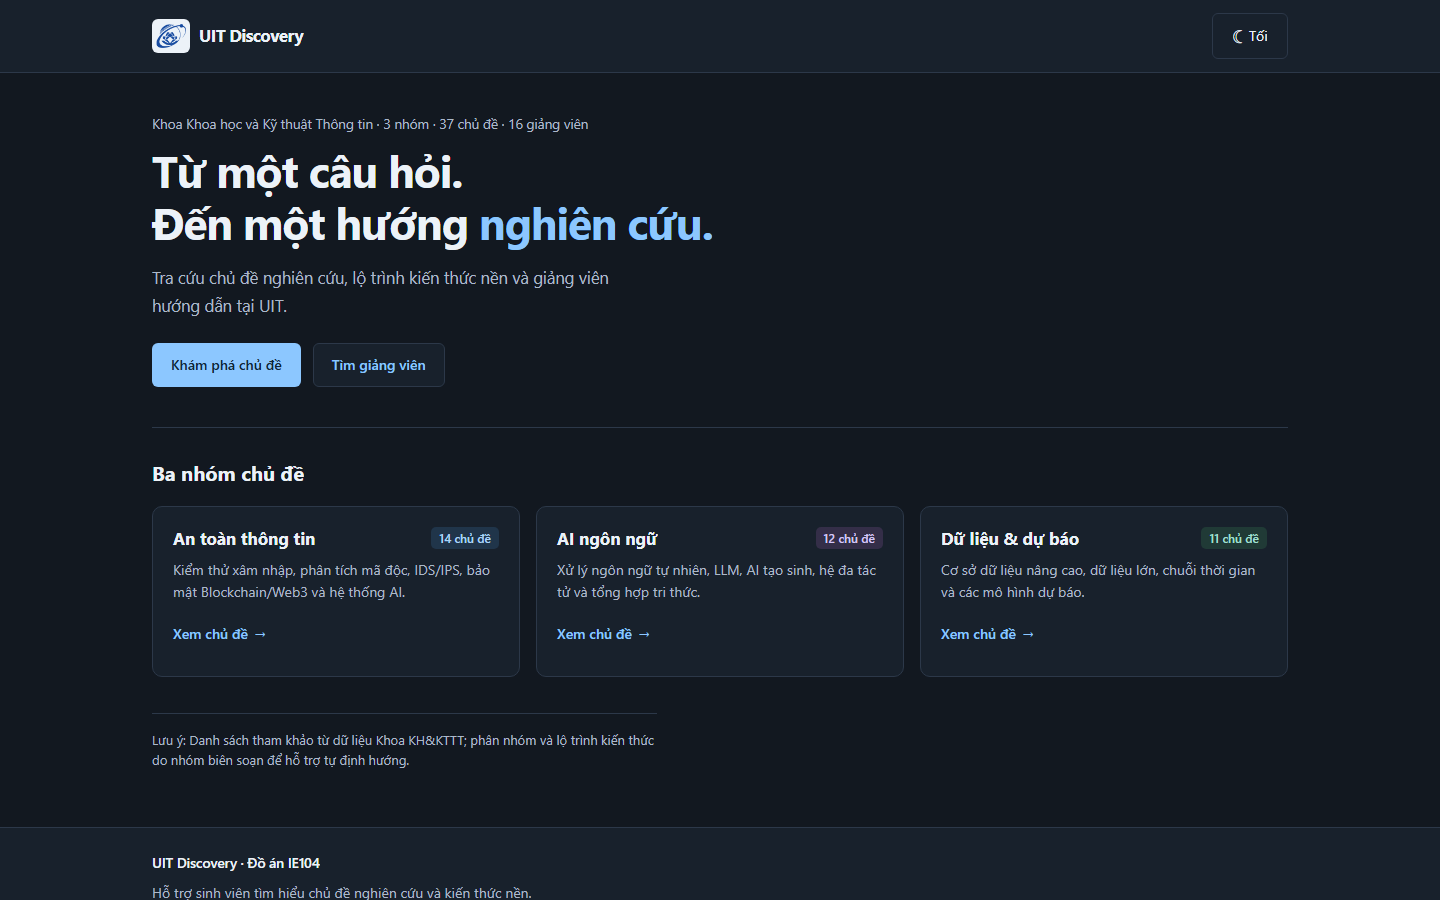
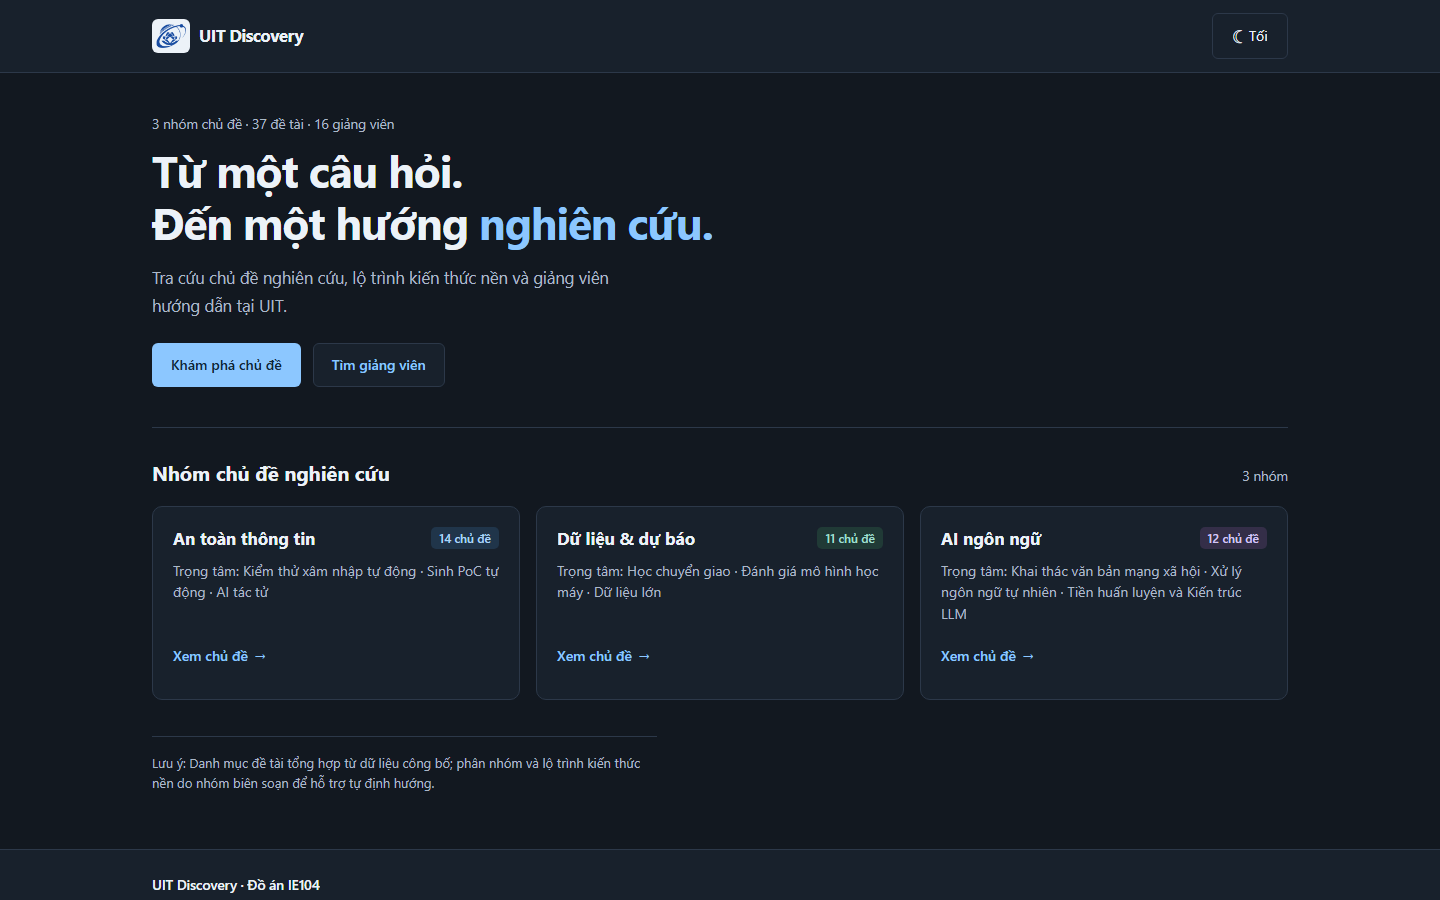
docs(history): cập nhật lịch sử và minh chứng động hóa dữ liệu không fix cứng

diff --git a/idea/README.md b/idea/README.md
@@ -8,7 +8,7 @@ Nhóm trưởng quản lý token, component, trang vào và module chung; các d
 
 ## Quyết định đang áp dụng
 
-- **Nâng cấp UI/UX hậu tích hợp & Tối giản hóa 18/11/2026 (`6f0d454` → bản tối giản cuối `c72acf8`, nhánh local `review/job-2-combined`):** Chuẩn hóa `35` token trong `style.css` (3 cặp sắc độ dịu `--color-domain-sec/data/nlp-*`, khôi phục `@media (prefers-color-scheme: dark)` No-JS, bỏ `--shadow-soft`); tối giản Trang chủ thành Hero 1 cột kèm 3 nhóm thật (`14/12/11`), loại bỏ khối minh họa nổi/quỹ đạo và 3 bước lặp, xử lý nền logo Dark Mode; trang Khám phá làm phẳng bộ lọc, bổ sung bộ đếm `(37/14/11/12)`, chọn nhiều OR bằng dấu `✓`, rút gọn tóm tắt đề tài định lượng (`N mục kiến thức · M môn gợi ý`) và giữ tiêu đề đầu gọn trong `375×812`; trang Chi tiết chủ đề làm phẳng header, ẩn hoàn toàn hộp chuyển khi GV chỉ có 1 đề tài (`7/16` GV), đồng bộ màu nhóm/badge trung tính và `Môn học gợi ý tham khảo`, lộ mép phải root + mũi tên + nút `+N`/`−` tách riêng + `Kéo 2D` + pseudo-fullscreen + `focusExpandedBranch()` neo đúng nhánh con; Danh bạ & Hồ sơ giảng viên giữ form `wcag/h32`, sắp A–Z tiếng Việt, bỏ vạch trang trí và hộp bọc lồng nhau, đưa `Chủ đề nghiên cứu` + `.profile-tags` lên đầu ở `15/16` hồ sơ tối giản. Backup gốc: `backup/job-2-before-ui-upgrade-20261118` (`f98c978`), backup đợt 1: `backup/job-2-ui-upgrade-v1-20261118` (`b8d84ab`). Giữ nguyên 100% `data/*.json`, schema, URL và alias `hunglkt -> hunglk`.
+- **Nâng cấp UI/UX hậu tích hợp, Tối giản & Động hóa 100% dữ liệu (18/11/2026 — `6f0d454` → `c72acf8` → bản cuối `00ab17a`, nhánh local `review/job-2-combined`):** Chuẩn hóa `41` token trong `style.css` (6 cặp sắc độ miền `--color-domain-1..6-bg/accent`, khôi phục `@media (prefers-color-scheme: dark)` No-JS, `--shadow-soft: none`); Trang chủ (`index.html` + `home.js`) dựng hoàn toàn từ JSON với `0`/`1`/`N` nhóm (`INITIAL_GROUP_LIMIT = 6` + nút mở rộng/thu gọn, thống kê tổng hợp thật, mô tả rút từ dữ liệu/trụ cột, link `?group=` sang Khám phá); trang Khám phá hỗ trợ `?group=`, co gọn chip nhóm khi `> 6` nhóm, placeholder trung tính và phân trang cửa sổ `getVisiblePages()` `<= 7` ô kèm `"…"`; trang Chi tiết chủ đề gán màu miền động `resolveGroupTone` cho mọi `group.id` và xử lý an toàn `keywords: []`; Danh bạ & Hồ sơ giảng viên bỏ placeholder mẫu, hỗ trợ `?group=`, nhãn miền động 6 tone và phân trang rút gọn. Backup gốc: `backup/job-2-before-ui-upgrade-20261118` (`f98c978`), backup đợt 1: `backup/job-2-ui-upgrade-v1-20261118` (`b8d84ab`), backup tối giản v1: `backup/job-2-ui-minimal-v1-20261118` (`d5c9ad7`). Giữ nguyên 100% `data/*.json`, schema, URL và alias `hunglkt -> hunglk`.
 
 - **Cập nhật UI/UX 17/11/2026 (nhóm trưởng duyệt phạm vi thiết kế lại):** nhận diện xanh UIT, Material tiết chế được phát triển thành giao diện học thuật có điểm nhấn: hero biên tập, minh họa khái niệm tự dựng bằng CSS, phân cấp bề mặt và typography. Chức năng/schema/URL giữ nguyên. Quyết định này thay giới hạn “ít trang trí” của 12/11; xem đánh giá và nghiệm thu mới trong kế hoạch tổng. Bản local chờ nhóm trưởng xem trước khi push/merge.
 

diff --git a/topics/job2-sua-chua-tv3.md b/topics/job2-sua-chua-tv3.md
@@ -129,3 +129,7 @@ Thực hiện hậu tích hợp trên nhánh `review/job-2-combined` (`CODE_SHA`
 - Làm phẳng `.topics-search` (viền đáy `1px`, bỏ hộp/bóng đổ), bỏ sọc trái `.page-header`, bỏ mô tả thừa dưới `h1` và khối `<details class="topics-guide">` ở cuối trang.
 - Bỏ chấm màu cầu vồng trên chip lọc chưa chọn (giữ dấu `✓` + nền nhấn xanh thống nhất khi bật lọc OR; giữ 3 màu dịu trên `.topic-row__group`), gom tiêu đề + bộ đếm kết quả trên 1 hàng, rút `.topic-row__summary` qua `data.js` còn `"N mục kiến thức · M môn gợi ý"`.
 - **Kết quả sau sửa:** Tiêu đề đề tài đầu tiên trên mobile `375×812` nâng lên `{top: 544, bottom: 582}` (`<= 812px`, thấy cả đầu đề tài thứ 2 trong màn hình đầu), placeholder `"Ví dụ: học sâu, mã độc, Cầm"` vừa khít ở `320px` (`fitsAt320: true`), `touch_targets: []`, `axe_violations: []`, `0` lỗi HTML `validator.nu`, `"hoc sau" -> 5`, `"mã độc" -> 2`, `"nguyen tan cam" -> 3`. Minh chứng ảnh `05`, `06` đã cập nhật.
+
+### Vòng động hóa dữ liệu không fix cứng (`00ab17a`) — 18/11/2026
+- Đổi placeholder sang `"Tìm đề tài hoặc giảng viên…"` (không gắn tên/từ khóa mẫu, vừa `320px` với `198 <= 238px`), hỗ trợ nhận `?group=<id>` từ Trang chủ (tự xóa query khi reset về mặc định), co gọn nút nhóm khi `> 6` nhóm (`MAX_COLLAPSED_GROUPS = 6`) kèm giữ nút đang chọn trong tầm nhìn, và dùng phân trang cửa sổ `getVisiblePages` (`<= 7` ô kèm `"…"`).
+- Kết quả sau sửa: `28/28` hàm `topics.js` đủ JSDoc, `0` lỗi HTML `validator.nu`, test thật giữ nguyên `first_topic_mobile_375`: `{top: 544, bottom: 582}` (`"hoc sau" -> 5`, `"mã độc" -> 2`, `"nguyen tan cam" -> 3`), test giả lập `8` nhóm / `96` đề tài giữ `firstTitleBottom: 682 <= 812` trên `375×812`, `0` tràn ngang/console error. Minh chứng ảnh `05`, `06` đã cập nhật.

diff --git a/topics/detail/job2-sua-chua-tv1.md b/topics/detail/job2-sua-chua-tv1.md
@@ -136,3 +136,8 @@ Axe mobile không vi phạm trong nhóm WCAG2A/AA,21AA; HTML Validate trang chi 
 - Làm phẳng `.topic-header` (viền đáy `1px`, bỏ bóng đổ), ẩn hoàn toàn `#topic-switcher-container` khi GV chỉ có 1 đề tài (`7/16` GV, thay cho `.topic-switcher__single`), nút chuyển đa đề tài rút thành `"Đề tài khác (N)"`.
 - Giữ 3 sắc độ miền trên `#topic-group-badge` và `.mindmap-node--root`; đồng bộ viền `solid` cho node lá và badge cấp độ trung tính; thu gọn `.mindmap-toolbar` về nền sạch; dời lưu ý tham khảo xuống `.roadmap-footnote` cuối khối và rút gọn `#mindmap-hint`.
 - Kết quả sau sửa: `37/37` cây (`271` nodes) `0` chồng lấn, `touch_targets: []` (`>= 44px` trên mobile), `axe_violations: []`, `responsive_50: []`, `hintHiddenInCards: true`, `expandVisible.clippedRightOrLeft: 0`, `90/90` hàm JS đủ JSDoc, HTML `validator.nu` `0` lỗi (`1` info-warning `<dialog>`). Minh chứng ảnh `07`, `08`, `09`, `10`, `14` đã cập nhật trong `idea/minh-chung-giao-dien/ui-upgrade-20261118/`.
+
+### Vòng động hóa dữ liệu không fix cứng (`00ab17a`) — 18/11/2026
+- Gắn sắc độ miền động `resolveGroupTone(group.id, groupIndex)` qua `data-domain-tone="1".."6"` trên `#topic-group-badge` và `#mindmap-viewport` trong `topic-detail.js` / `topic-detail.css` (bỏ ràng buộc `data-group="sec|data|nlp"`).
+- Xử lý an toàn chủ đề `keywords: []`: `buildMindMapTree` + `setInitialMapView` căn giữa node gốc gọn trên mobile/desktop (`0` lỗi/tràn), `renderCardsView` hiển thị thông báo rõ trong `#roadmap-pillars-grid`.
+- Kết quả sau sửa: `37/37` cây (`271` nodes `0` overlap) + test tổng hợp nhóm `"cv"` `keywords: []` (`data-domain-tone="4"`, `rootNodes: 1`), `90/90` hàm JS đủ JSDoc, `0` lỗi HTML `validator.nu` (`1` info-warning `<dialog>`). Minh chứng ảnh `07`, `08`, `09`, `10`, `14` đã cập nhật.

diff --git a/lecturers/job2-sua-chua-tv2.md b/lecturers/job2-sua-chua-tv2.md
@@ -124,3 +124,7 @@ Thực hiện hậu tích hợp trên nhánh `review/job-2-combined` (`CODE_SHA`
 - **Danh bạ (`lecturers/*`):** Làm phẳng `.lecturers-filter` (chỉ viền đáy `1px`), xóa vạch `.lecturer-card::before` và bóng đổ, thu gọn avatar `40px`, rút nhãn thành `"N chủ đề"`, xóa mô tả thừa dưới `h1`, giữ nút `"Tìm"` (`wcag/h32`), sắp A–Z và giữ cân bằng 3 sắc độ `.lecturer-tag--sec/data/nlp`.
 - **Hồ sơ (`lecturers/detail/*`):** Bỏ hộp bọc `.profile-card` và thanh sọc `.profile-section__title::before`, dùng đường kẻ ngang `1px`, giữ gọn `"N chủ đề hướng dẫn"` và ghi chú tối giản 1 dòng cuối trang (ảnh `12`, `13`), rút gọn `.topic-row__summary` còn số lượng kiến thức/môn qua `data.js`.
 - **Kết quả sau sửa:** `0` `:root`, `0` `!important`, `27/27` (`lecturers.js`) & `22/22` (`lecturer-detail.js`) hàm đủ JSDoc, HTML `validator.nu` `0` lỗi, `axe_violations: []`, `touch_targets: []`, `responsive_50: []`, alias `hunglkt -> PGS. TS. Lê Kim Hùng`. Minh chứng ảnh `11`, `12`, `13` đã cập nhật.
+
+### Vòng động hóa dữ liệu không fix cứng (`00ab17a`) — 18/11/2026
+- Trung tính hóa placeholder (`"Tìm theo tên hoặc email…"`), gán nhãn miền động 6 tone qua `resolveGroupTone` (`data-domain-tone="1".."6"`) trong cả `lecturers.js` và `lecturer-detail.js`, hỗ trợ `?group=<id>` khi mở Danh bạ, và dùng phân trang cửa sổ `getVisiblePages` (`<= 7` ô kèm `"…"`) ở cả Danh bạ lẫn Hồ sơ.
+- Kết quả sau sửa: `29/29` (`lecturers.js`) & `23/23` (`lecturer-detail.js`) hàm đủ JSDoc, `0` lỗi HTML `validator.nu`, `axe_violations: []`, `touch_targets: []`, test tổng hợp `?group=iot` (`12` GV) & 6 tone trên `6` nhóm tùy biến đạt 100%. Minh chứng ảnh `11`, `12`, `13` đã cập nhật.
